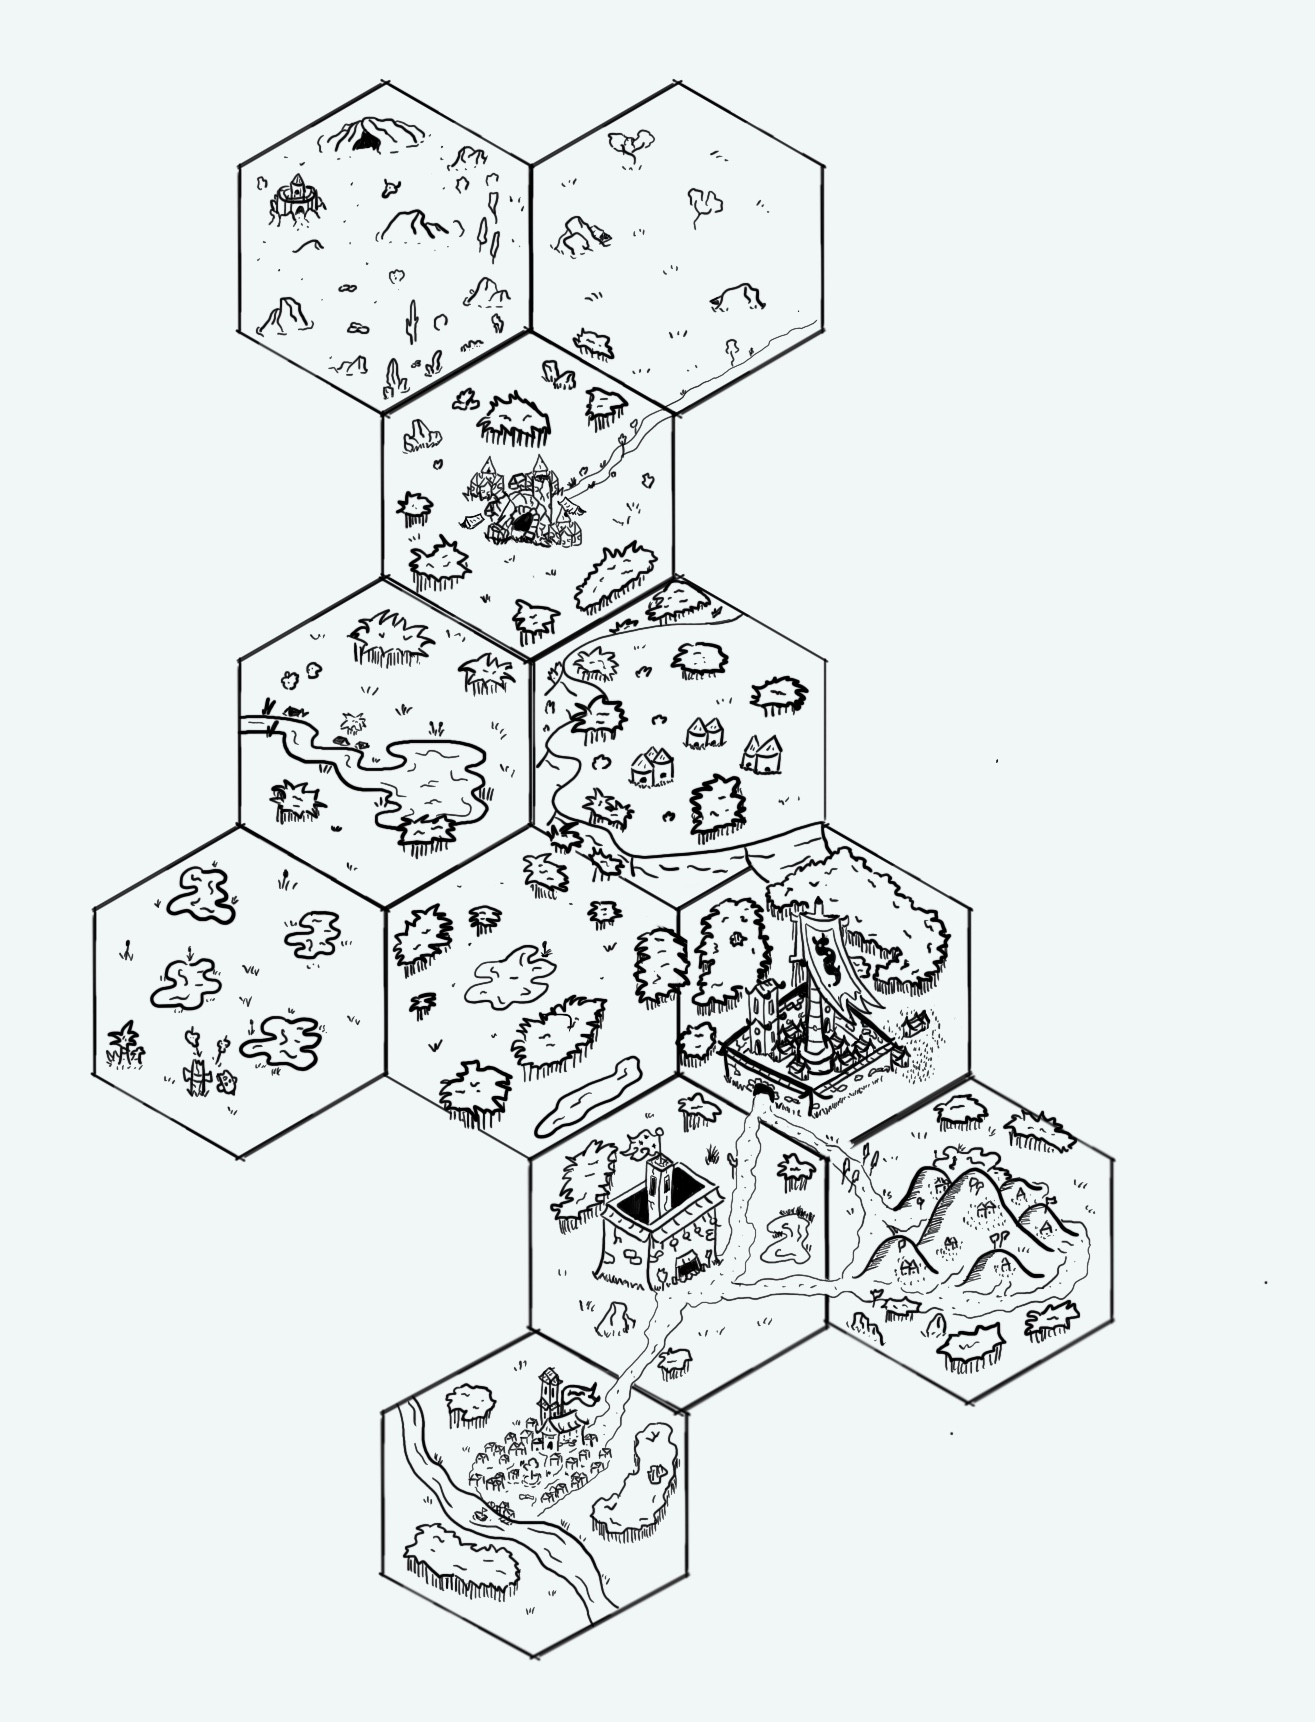
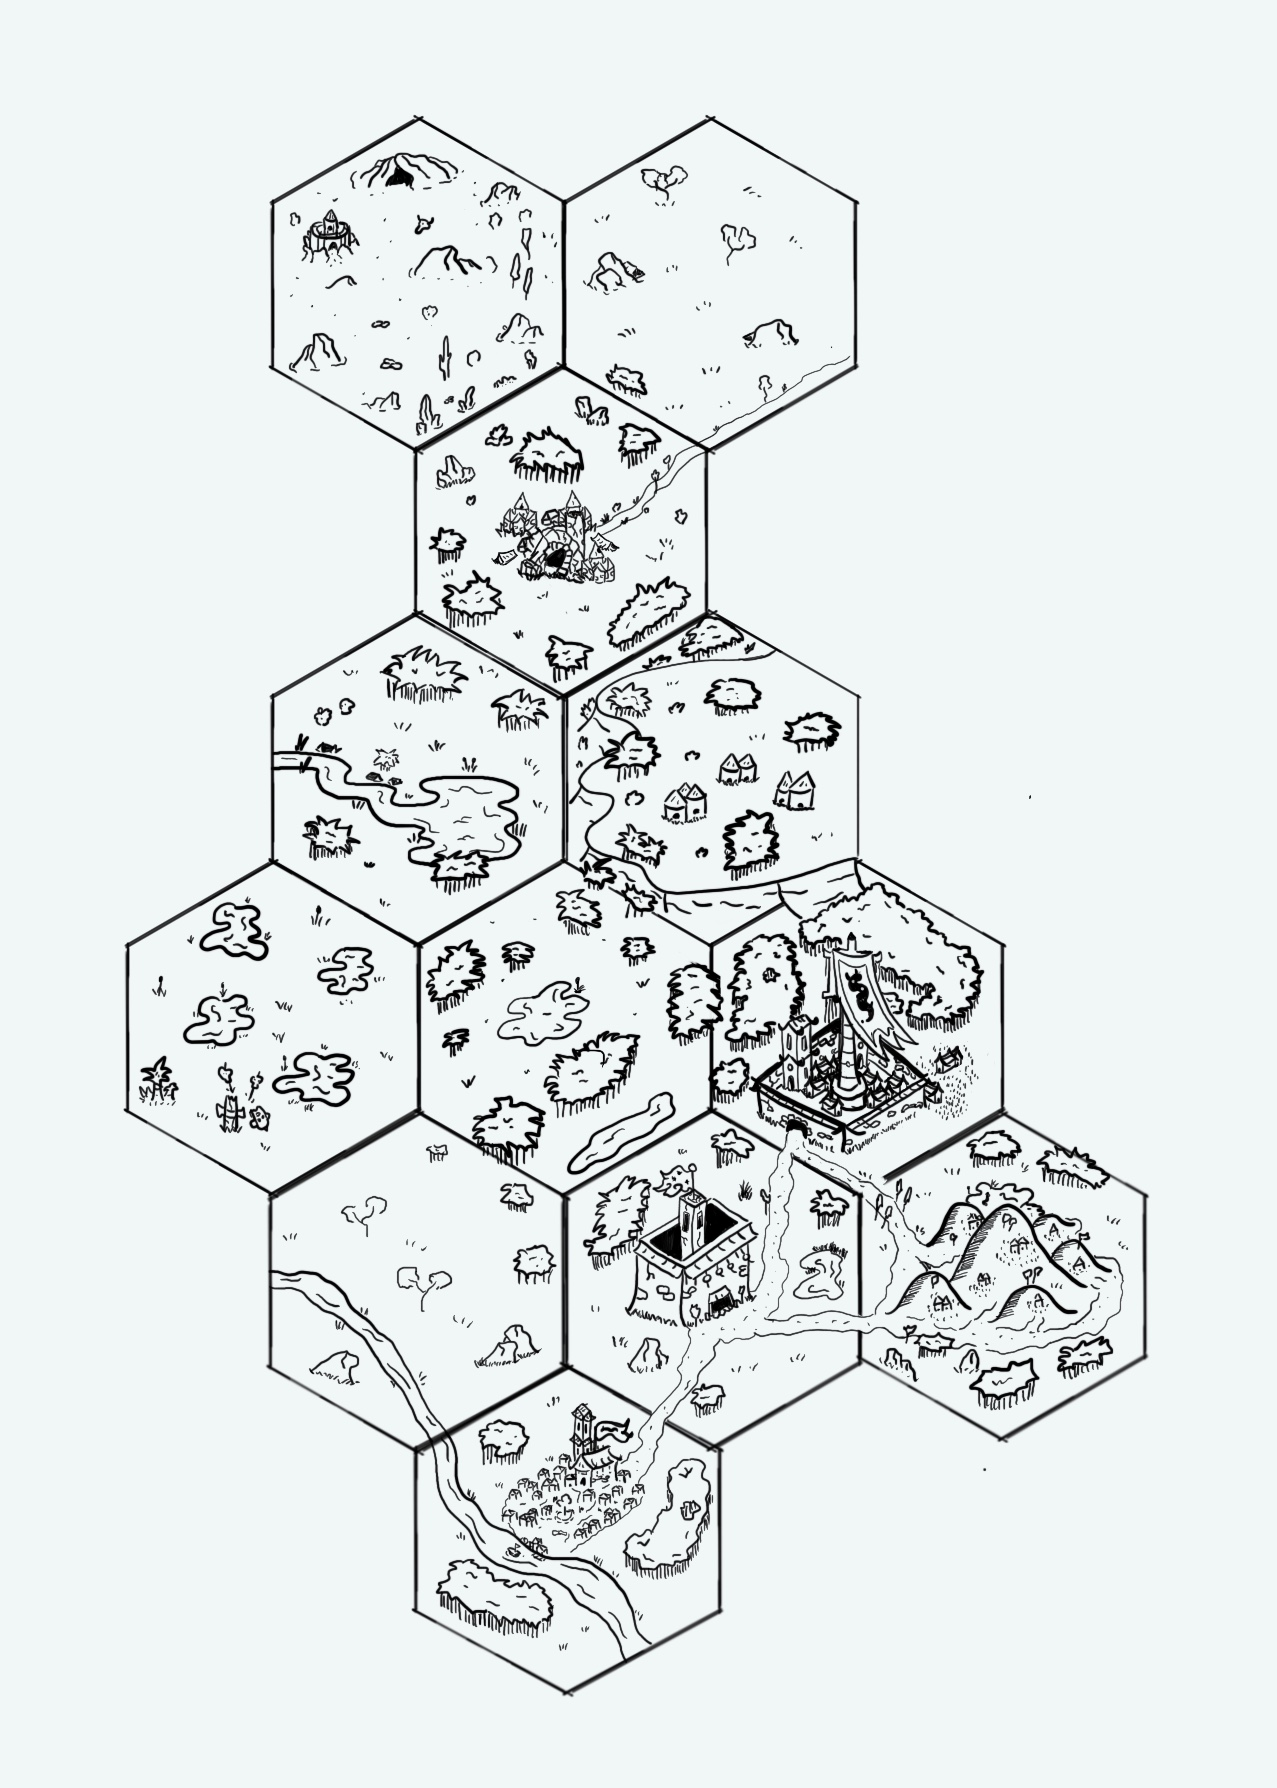
:sparkles: Day 12 + updates

Changed region(s): [[0.0611, 0.0308, 0.9162, 0.9849], [0.5803, 0.0616, 0.6108, 0.0923], [0.3054, 0.7079, 0.3359, 0.7387]]

diff --git a/content/day-12.md b/content/day-12.md
@@ -1,0 +1,19 @@
++++
+title = "Day 12 - 2023-01-12 - Plains"
+date = 2023-01-12
+[taxonomies]
+categories=["January", "Wild lands", "Plains", "River", "No magic"]
+tags=["Wild lands", "Wild lands", "River", "No magic"]
++++
+
+## Linked hexes
+- [Day 1 - 2023-01-01 - Jungle](../day-1)
+- [Day 7 - 2023-01-07 - Swamps](../day-7)
+- [Day 11 - 2023-01-11 - River & City](../day-9)
+
+
+## What's going on here?
+> A plains where the wild lands start. Hunters from the nearest city love to go there. However travellers need to be careful about predators lurking for preys.
+
+![day12](../day12.jpeg)
+

diff --git a/content/day-1.md b/content/day-1.md
@@ -13,6 +13,7 @@ tags=["Jungle", "Wild lands", "Weak magic"]
 - [Day 7 - 2023-01-07 - Swamps](../day-7)
 - [Day 8 - 2023-01-08 - Ralakoï](../day-8)
 - [Day 10 - 2023-01-10 - Temple](../day-10)
+- [Day 12 - 2023-01-12 - Plains](../day-12)
 
 ## What's going on here?
 > A small refreshing part of the forest. Humidity seems tolerables but it seems to be the nest of insects and other rodents. A fairytale says an hag is coming sometimes to prepare her vile potions.

diff --git a/content/day-7.md b/content/day-7.md
@@ -9,6 +9,7 @@ tags=["Swamps", "Wild lands", "Medium magic"]
 ## Linked hexes
 - [Day 1 - 2023-01-01 - Jungle](../day-1)
 - [Day 6 - 2023-01-06 - River & Lake](../day-6)
+- [Day 12 - 2023-01-12 - Plains](../day-12)
 
 
 ## What's going on here?

diff --git a/content/day-11.md b/content/day-11.md
@@ -8,6 +8,7 @@ tags=["Ralakoï", "Temple", "Jungle", "No magic"]
 
 ## Linked hexes
 - [Day 10 - 2023-01-10 - Temple](../day-10)
+- [Day 12 - 2023-01-12 - Plains](../day-12)
 
 
 ## What's going on here?
